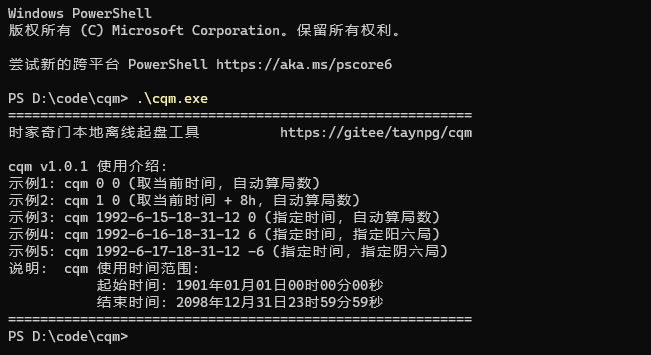
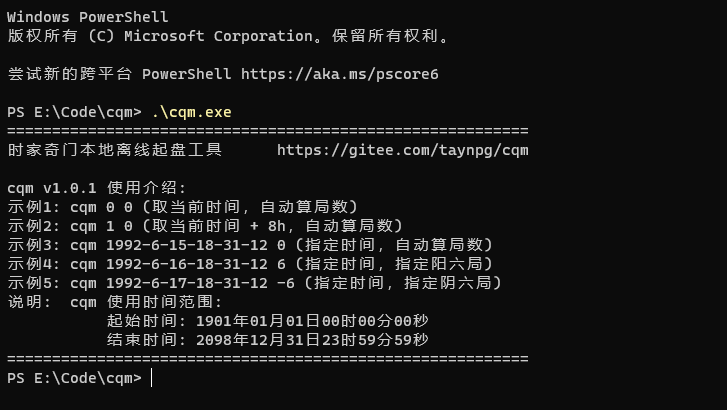
v1.0.5修复界面提示问题个别可能越界的问题

diff --git a/src/comline.c b/src/comline.c
@@ -376,9 +376,9 @@ void BaseInfomation(const char* pErrorInfo)
 // 日期不合法打印通知
 void InlegalTime()
 {
-    char szTem[STR_LEN_64];
+    char szTem[STR_LEN_128];
     memset(szTem, 0x0, sizeof(szTem));
-    sprintf(szTem, "时间范围不合法或者日期格式不正确。\n\n", CQM_VERSION);
+    sprintf(szTem, "时间范围不合法或者日期格式不正确。\n\n");
     BaseInfomation(szTem);
 }
 
@@ -386,11 +386,11 @@ void InlegalTime()
 // 其他失败，命令行格式: xx 0 0 或者 xx 1995-4-1-4-5-34 9
 int  ParseCommand(int nArgc, char** pArgv, calSolar* pSolar, int* pnJushu, int* pbIsAutoTime)
 {
-    char szTem[STR_LEN_64];
+    char szTem[STR_LEN_128];
     memset(szTem, 0x0, sizeof(szTem));
     if (nArgc == 1)
     {
-        sprintf(szTem, "时家奇门本地离线起盘工具          https://gitee/taynpg/cqm\n\n", CQM_VERSION);
+        sprintf(szTem, "时家奇门本地离线起盘工具      https://gitee.com/taynpg/cqm\n\n");
         BaseInfomation(szTem);
         return -1;
     }

diff --git a/include/comline.h b/include/comline.h
@@ -1,6 +1,6 @@
 #include <calendar.h>
 
-#define CQM_VERSION "v1.0.1"
+#define CQM_VERSION "v1.0.5"
 
 void InlegalTime();
 // 传入命令行相关参数，当返回值为 0 时，pSolar 中保存解析出来的日期。
